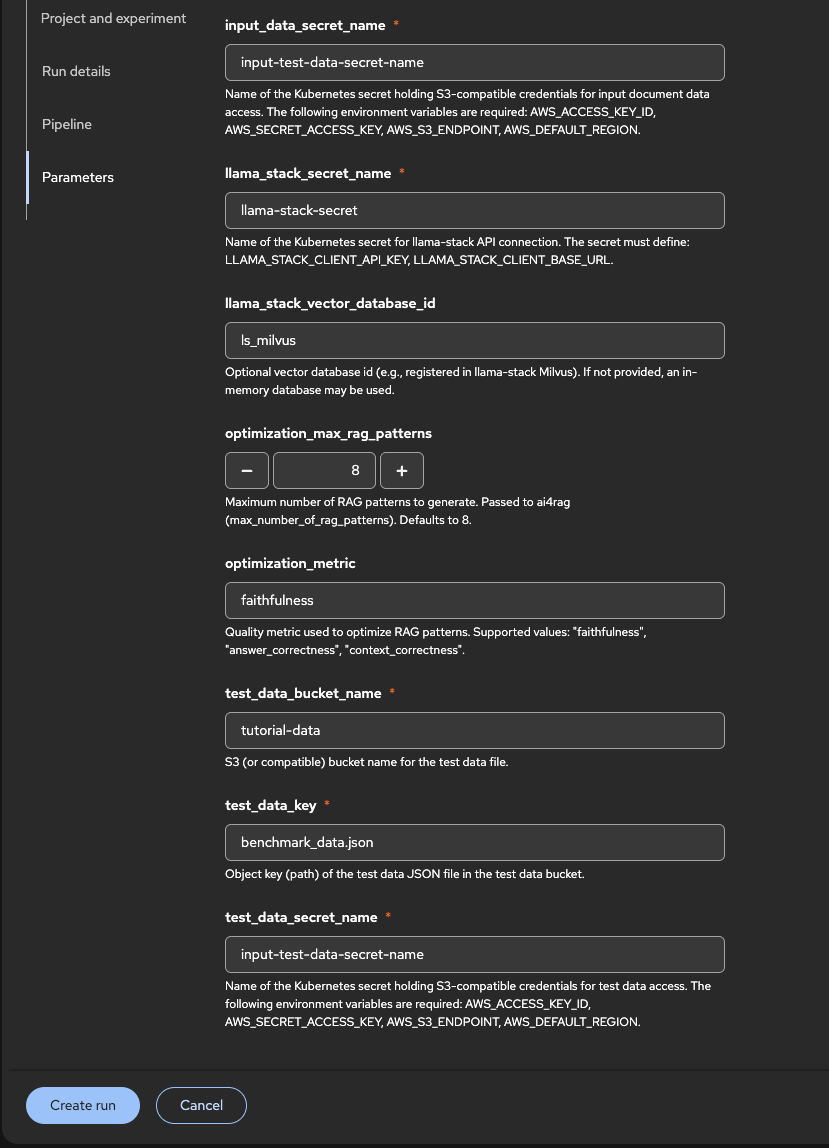
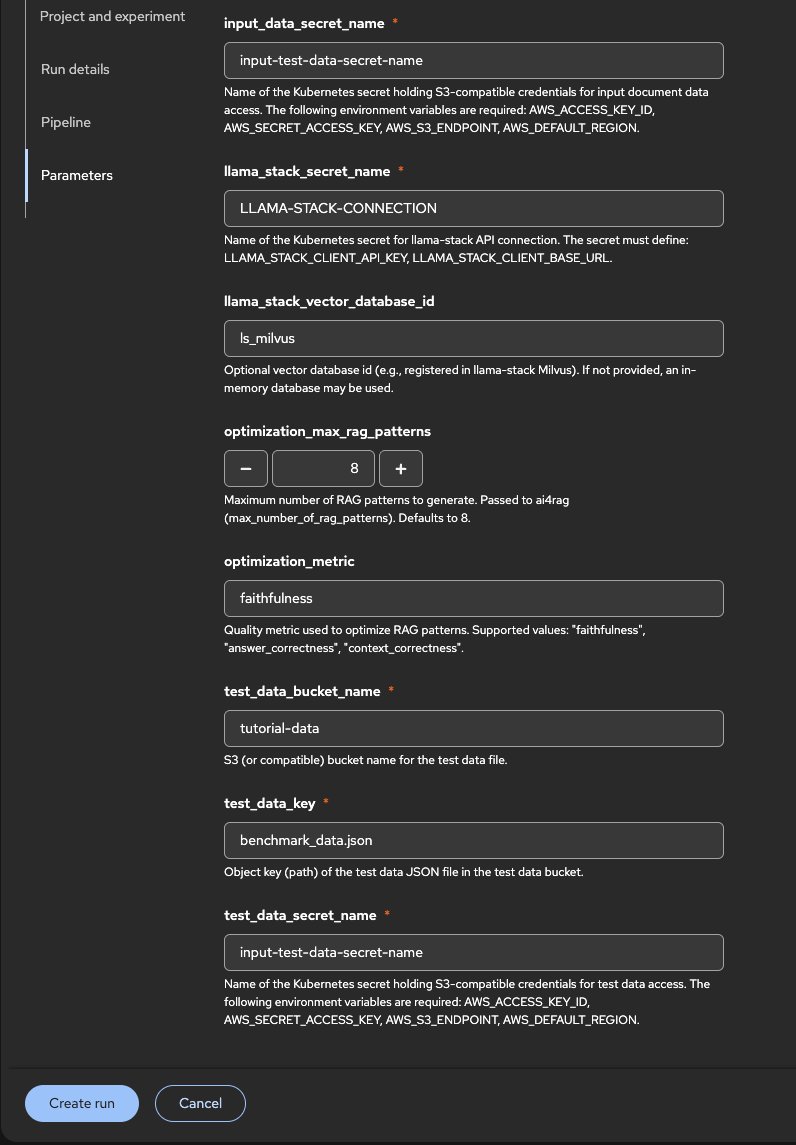
Fix llama stack connection creation and attachment (#61)

diff --git a/examples/autorag/financial_reports_tutorial.md b/examples/autorag/financial_reports_tutorial.md
@@ -48,6 +48,11 @@ The pipeline expects a Kubernetes secret containing the Llama-stack client URL a
 | **①** | **Create a new connection type.** Go to **Settings** → **Environment Setup** → **Connection types** and click **Create connection type**. Define the required properties for Llama-stack: **LLAMA_STACK_CLIENT_BASE_URL** and **LLAMA_STACK_CLIENT_API_KEY**. This one-time setup is typically done by an administrator (or by you, if you have permissions). Once created, the Llama-stack connection type is available when creating connections in projects. |
 | **②** | **Create a connection of that type in the project.** In your project, open **Connections** and create a new connection. Select the **Llama-stack** connection type you defined in step ①. Enter **LLAMA_STACK_CLIENT_BASE_URL** (the base URL of your Llama-stack RAG server) and **LLAMA_STACK_CLIENT_API_KEY** (if your deployment requires it). The pipeline references this connection’s secret by name as `llama_stack_secret_name`. |
 
+**① Create new `LLAMA_STACK_CONNECTION` connection type for Llama Stack server**
+![Llama Stack connection type](images/llama_stack_new_connection_type.png)
+
+**② Create new connection of type `LLAMA_STACK_CONNECTION` inside your project**
+![Llama Stack connection creation](images/llama_stack_connection_creation.png)
 **Note:** Use the connection’s **resource name** (or secret name) as `llama_stack_secret_name` when creating the pipeline run. For exact key names and options, see the [documents_rag_optimization_pipeline](https://github.com/red-hat-data-services/pipelines-components/tree/main/pipelines/training/autorag/documents_rag_optimization_pipeline) README.
 
 <a id="create-s3-connections"></a>
@@ -85,10 +90,10 @@ Create S3-compatible connections so the pipeline can read test data and input do
 ![workbench_resources](images/workbench_resources.png)
 
 **Step ② — Attach Llama Stack Server API key and base URL as env variables:**
-![workbench_resources](images/workbench_env_vars.png)
+![workbench_resources](images/workbench_llama_stack_and_s3_conn.png)
 
-**Step ③ — Attach connection pointing to tutorial data (benchmark_data.json and documents) and create the workbench:**
-![workbench_resources](images/workbench_connections.png)
+**Step ③ — Start the workbench**
+![workbench_resources](images/start_workbench.png)
 
 <a id="upload-documents-and-test-data-to-s3"></a>
 
